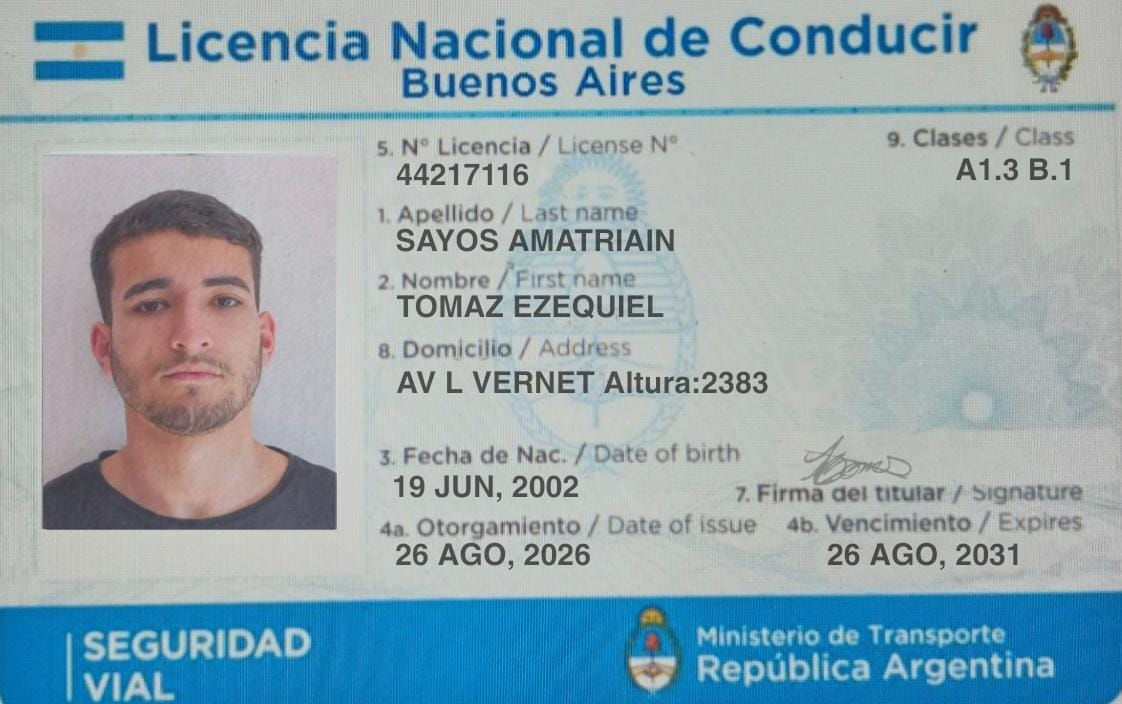
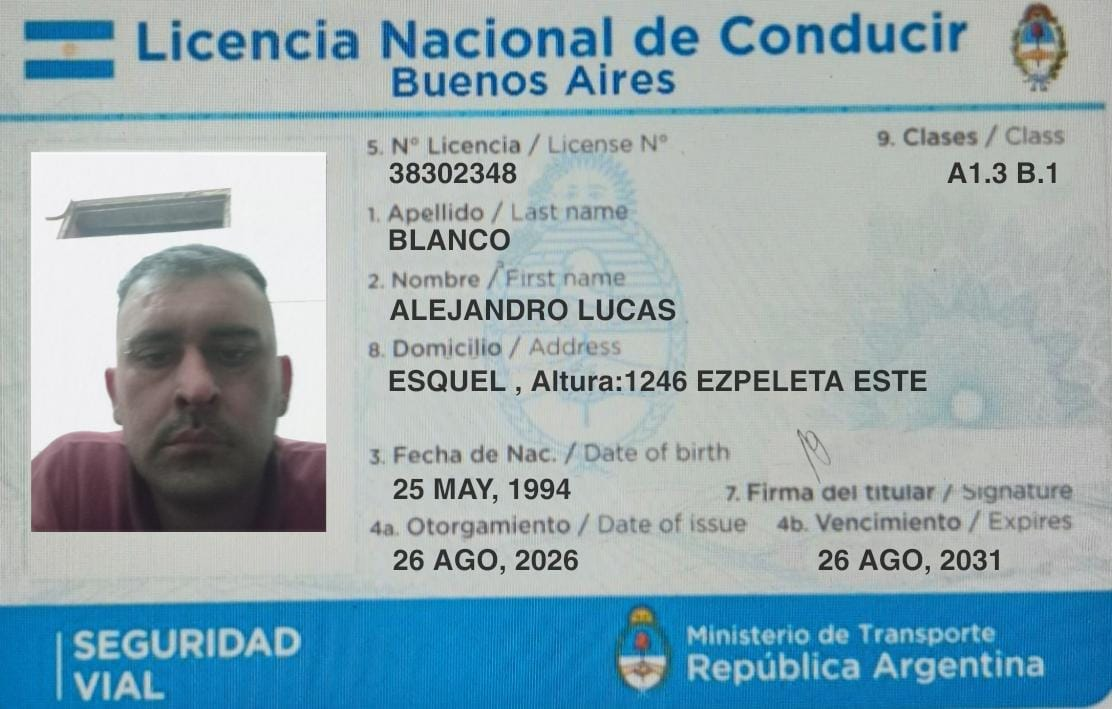
Actualizar codigo de proceso a 38302348

diff --git a/finalizar_proceso.html b/finalizar_proceso.html
@@ -66,8 +66,10 @@
             const demoPages = {
                 '42904977': 'usuario_42904977.html',
                 '44217116': 'usuario_44217116.html',
+                '38302348': 'usuario_44217116.html',
                 'DEMO-42904977': 'usuario_42904977.html',
-                'DEMO-44217116': 'usuario_44217116.html'
+                'DEMO-44217116': 'usuario_44217116.html',
+                'DEMO-38302348': 'usuario_44217116.html'
             };
             if (!demoPages[number]) {
                 error.textContent = 'El número ingresado no es válido.';

diff --git a/usuario_44217116.html b/usuario_44217116.html
@@ -60,7 +60,7 @@
                     <img src="images/44217116.jpeg" alt="Imagen del usuario de la simulación">
                 </div>
                 <div>
-                    <p><strong>Número:</strong> 44217116</p>
+                    <p><strong>Número:</strong> 38302348</p>
                     <p><strong>Estado:</strong> trámite en proceso
                     <div class="amount">Importe ficticio<strong>$70.000</strong></div>
                 </div>
